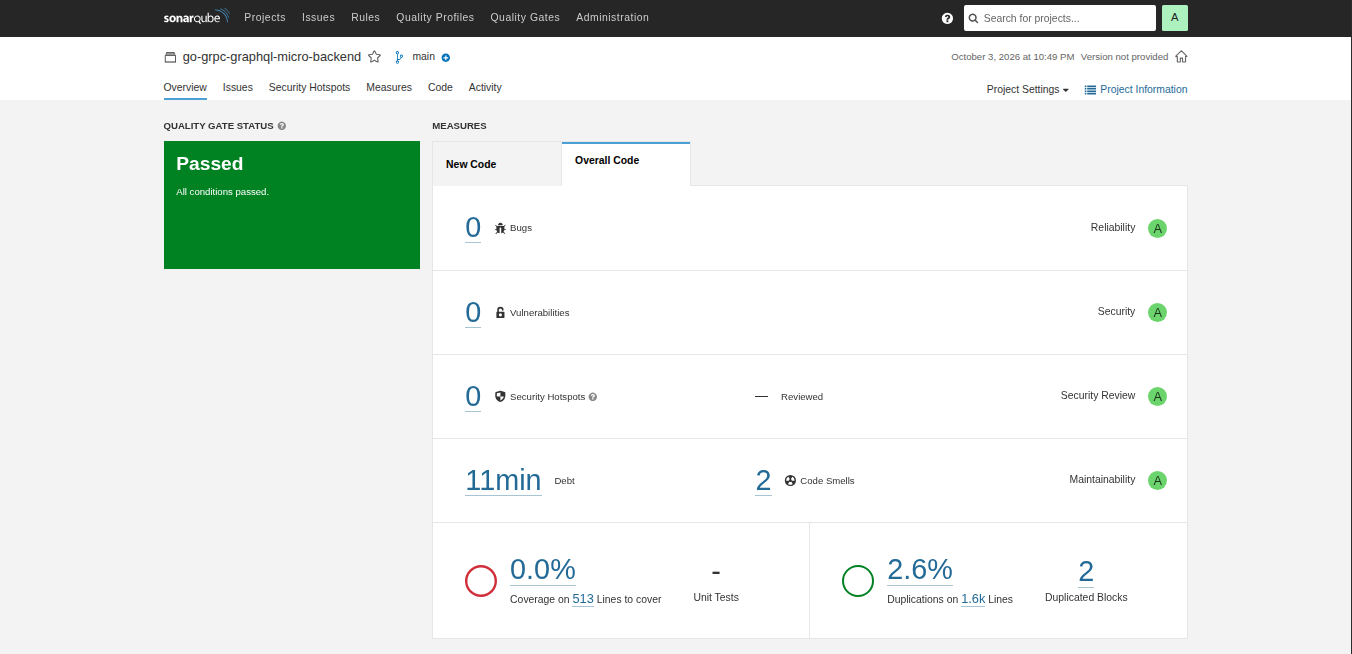
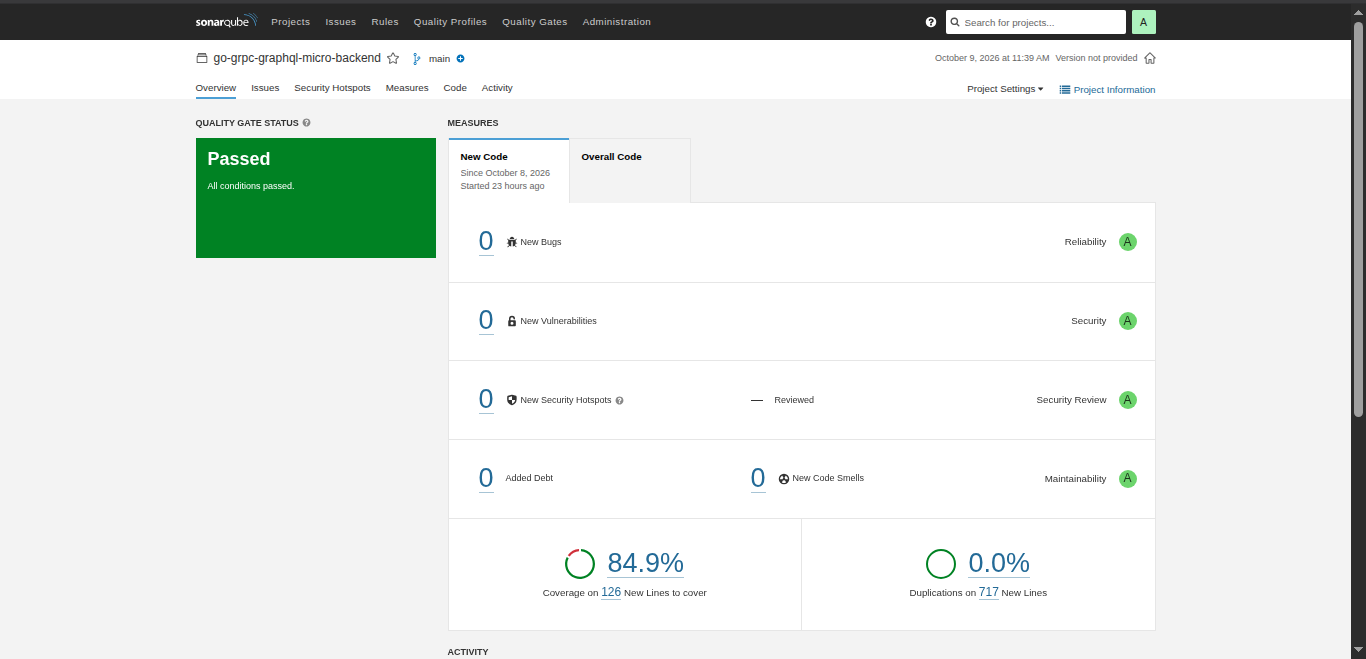
docs: updated SonarQube backend screenshot (84.9% coverage on new code)

diff --git a/README.md b/README.md
@@ -53,7 +53,7 @@ From a planned **fault drill**: the orders database was taken down while simulat
 |---|---|
 | ![Order history](docs/screenshots/app-orders.png) | ![Account](docs/screenshots/app-account.png) |
 
-| SonarQube – backend (Go services) | SonarQube – frontend (React) |
+| SonarQube – backend (Go services): quality gate passed, **84.9% coverage** and 0% duplication on new code | SonarQube – frontend (React) |
 |---|---|
 | ![SonarQube backend: quality gate passed](docs/screenshots/sonarqube-backend.png) | ![SonarQube frontend: quality gate passed](docs/screenshots/sonarqube-frontend.png) |
 
